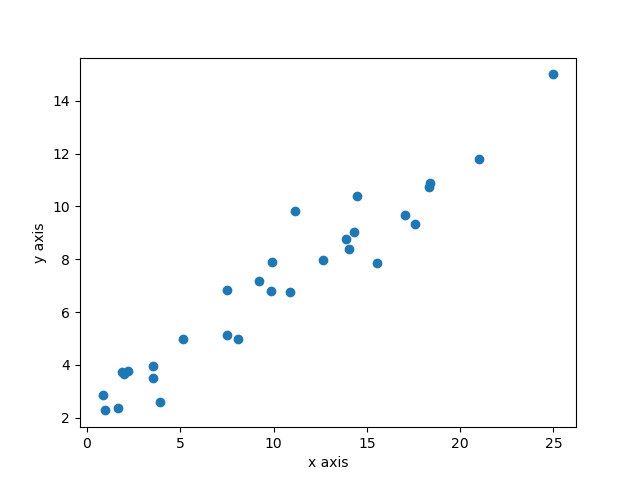
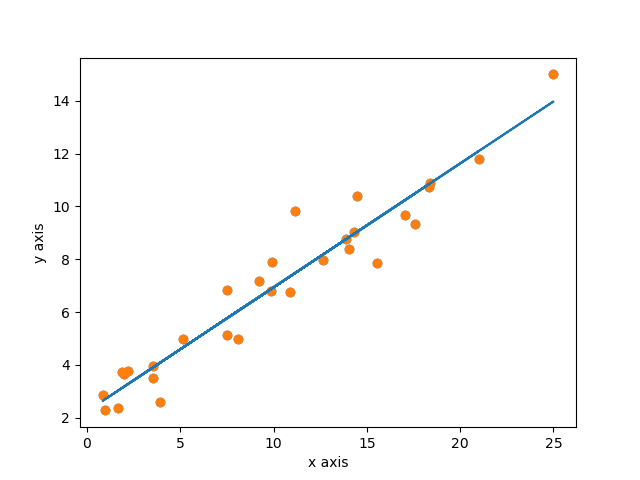
updated script to add graph images

diff --git a/lm_py.py b/lm_py.py
@@ -11,6 +11,11 @@ import numpy as np
 from sklearn.linear_model import LinearRegression
 import sys
 
+import matplotlib
+
+matplotlib.use('Agg')
+import matplotlib.pyplot as plt
+
 # # Load Dataset
 
 # In[ ]:
@@ -25,10 +30,10 @@ df.head()
 
 # In[ ]:
 
-plt.savefig("pylm_scatter.png", format="png")
 plt.scatter(df['x'],df['y'])
 plt.xlabel("x axis")
 plt.ylabel("y axis")
+plt.savefig("pylm_scatter.png", format="png")
 
 # # Create Linear Model of Data
 
@@ -59,9 +64,8 @@ y_pred = model.predict(x)
 
 # In[ ]:
 
-plt.savefig("pylm_fit.png", format="png")
 plt.scatter(x,y)
 plt.plot(x,y_pred)
 plt.xlabel("x axis")
 plt.ylabel("y axis")
-
+plt.savefig("pylm_fit.png", format="png")
